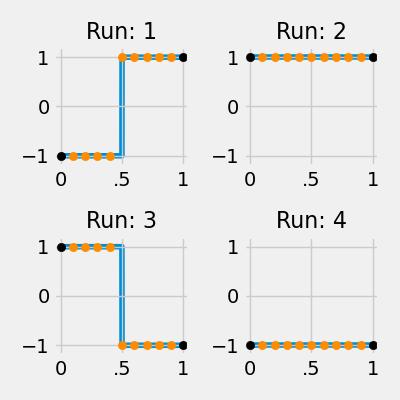
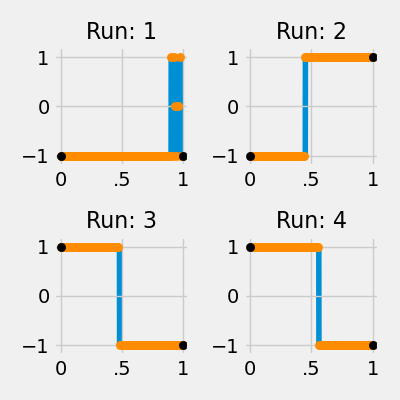
working copy of cordex_continuous where n_x=100, n_b=2, r=4 produces A-opt value 8.44 with no penalization

diff --git a/v2/cordex_continuous.py b/v2/cordex_continuous.py
@@ -5,7 +5,8 @@ from gen_rand_design import gen_rand_design_m  # custom function for generating 
 from cordex_discrete import cordex_discrete
 
 
-def cordex_continuous(runs, f_list, scalars, optimality='A', J_cb=None, R_0=None, smooth_pen=0, ridge_pen=0, epochs=1000,
+def cordex_continuous(runs, f_list, scalars, optimality='A', J_cb=None, R_0=None, smooth_pen=0, ridge_pen=0,
+                      epochs=1000,
                       method='L-BFGS-B', random_start=False, disable_bar=True, final_pass=False):
     """
     Uses a coordinate descent algorithm to find the design with the minimum D-optimality (or maximum A-optimality)
@@ -56,26 +57,30 @@ def cordex_continuous(runs, f_list, scalars, optimality='A', J_cb=None, R_0=None
             ValueError: If the specified optimality criterion is not one of 'D' or 'A'.
         """
 
+        def MATRIX_calculation():
+            if R_0 is None and ridge_pen == 0:
+                P = np.identity(Mu.shape[0])
+            else:
+                if R_0 is None:
+                    P = Mu + ridge_pen * np.identity(Mu.shape[0])
+                elif ridge_pen == 0:
+                    P = Mu + smooth_pen * R_0
+                else:
+                    P = Mu + smooth_pen * R_0 + ridge_pen * np.identity(Mu.shape[0])
+            try:
+                P_inv = np.linalg.inv(P)
+            except np.linalg.LinAlgError:
+                return np.nan
+            return P_inv @ Mu @ P_inv
+
         Model_mat[run, feat] = x
         Gamma = Model_mat[:, :f_coeffs]
         X = Model_mat[:, f_coeffs:]
         Zetta = np.concatenate((ones, Gamma @ J_cb, X), axis=1)
         Mu = Zetta.T @ Zetta
 
-        if R_0 is None:
-            R = np.zeros((Mu.shape[0], Mu.shape[1]))
-        else:
-            R = R_0
-        if ridge_pen == 0:
-            I = np.zeros((Mu.shape[0], Mu.shape[1]))
-        else:
-            I = np.identity(Mu.shape[0])
+        MATRIX = MATRIX_calculation()
 
-        try:
-            P_inv = np.linalg.inv(Mu + smooth_pen * R + ridge_pen * I)
-            MATRIX = P_inv @ Mu @ P_inv
-        except np.linalg.LinAlgError:
-            return np.nan
         # if R_0 is None:
         #     MATRIX = Mu
         # else:
@@ -92,7 +97,7 @@ def cordex_continuous(runs, f_list, scalars, optimality='A', J_cb=None, R_0=None
             return -value  # negative of criterion value for minimization (i.e., maximize D-optimality)
         elif optimality == 'A':
             try:
-                value = float(np.trace(np.linalg.inv(MATRIX)))  # trace of inverse of Zetta.T x Zetta
+                value = np.trace(np.linalg.inv(MATRIX))  # trace of inverse of Zetta.T x Zetta
             except np.linalg.LinAlgError:
                 value = np.nan
             return value
@@ -123,8 +128,8 @@ def cordex_continuous(runs, f_list, scalars, optimality='A', J_cb=None, R_0=None
             Gamma_, X_ = gen_rand_design_m(runs=runs, f_list=f_list, scalars=scalars)
             Model_mat = np.hstack((Gamma_, X_))
         else:
-            Model_mat, _, _ = cordex_discrete(runs=runs, f_list=f_list, scalars=scalars, levels=[-1, 1], epochs=1,
-                                              optimality=optimality, J_cb=J_cb, disable_bar=disable_bar)
+            Model_mat, _ = cordex_discrete(runs=runs, f_list=f_list, scalars=scalars, levels=[-1, 1], epochs=10,
+                                           optimality=optimality, J_cb=J_cb, disable_bar=disable_bar)
         for run in range(runs):
             for feat in range(f_coeffs + scalars - 1):
                 res = minimize(objective, Model_mat[run, feat], method=method, bounds=[(-1, 1)])

diff --git a/v2/cordex_discrete.py b/v2/cordex_discrete.py
@@ -103,24 +103,35 @@ def cordex_discrete(runs, f_list, scalars, levels, epochs, optimality='A', J_cb=
             raise ValueError(f"Invalid criterion {optimality}. "
                              "Criterion should be one of 'D', 'A', 'E', or 'I'.")
 
+    def check(obj):
+        if optimality in ['A']:
+            return 0 < obj < Best_obj
+        else:
+            return obj < 0 < Best_obj
+
+    Best_des = None
+    Best_obj = np.inf
     f_coeffs = sum(f_list)+1
     ones = np.ones((runs, 1))
-    epochs_list = []
 
-    for epoch in tqdm(range(epochs), disable=disable_bar):
-        Gamma_, X_ = gen_rand_design_m(runs=runs, f_list=f_list, scalars=scalars)  # [n x n_x]
-        Model_mat = np.hstack((Gamma_, X_))
-        for run in range(runs):
-            for feat in range(f_coeffs + scalars - 1):
-                best_level_list = []
-                for level in levels:
-                    Model_mat[run, feat] = level
-                    objective_value = objective()
-                    best_level_list.append(objective_value)
-                best_level_index = best_level_list.index(min(best_level_list))
-                Model_mat[run, feat] = levels[best_level_index]
+    while Best_obj == np.inf:
+        for _ in tqdm(range(epochs), disable=disable_bar):
+            Gamma_, X_ = gen_rand_design_m(runs=runs, f_list=f_list, scalars=scalars)  # [n x n_x]
+            Model_mat = np.hstack((Gamma_, X_))
+            for run in range(runs):
+                for feat in range(f_coeffs + scalars - 1):
+                    best_level_list = []
+                    for level in levels:
+                        Model_mat[run, feat] = level
+                        objective_value = objective()
+                        best_level_list.append(objective_value)
+                    best_level_index = best_level_list.index(min(best_level_list))
+                    Model_mat[run, feat] = levels[best_level_index]
 
-        # For each epoch, compute the optimality criterion to keep in an array.
-        objective_value = objective()
-        epochs_list.append([epoch, objective_value, Model_mat])
-    return find_best_design(np.array(epochs_list, dtype=object), optimality)
+            # For each epoch, compute the optimality criterion to keep in an array.
+            objective_value = objective()
+            if check(objective_value):
+                Best_obj = objective_value
+                Best_des = Model_mat
+
+    return Best_des, np.abs(Best_obj)

diff --git a/v2/R.py b/v2/R.py
@@ -5,21 +5,21 @@ from basis import polynomial
 from scipy.linalg import block_diag
 
 
-def calc_penalty_matrix(n_b, padding=True):
-    zeros_ver = np.zeros(n_b).reshape(-1, 1)
-    zeros_hor = np.zeros(n_b + 1).reshape(1, -1)
-
+def calc_penalty_matrix(n_b):
     R_mat = np.array(
         [[quad(lambda t: (derivative(polynomial, t, n=2, dx=1e-6, args=[j])) *
                          (derivative(polynomial, t, n=2, dx=1e-6, args=[i])),
                0, 1, full_output=True)[0] for j in range(n_b)] for i in range(n_b)])
 
+    return R_mat
+
+
+def R(*matrices, padding=True):
+    block_mat = block_diag(*matrices)
+    zeros_ver = np.zeros(block_mat.shape[0]).reshape(-1, 1)
+    zeros_hor = np.zeros(block_mat.shape[1] + 1).reshape(1, -1)
     if padding:
-        R_0 = np.round(np.concatenate((zeros_hor, np.concatenate((zeros_ver, R_mat), axis=1)), axis=0), 3)
+        R_0 = np.round(np.concatenate((zeros_hor, np.concatenate((zeros_ver, block_mat), axis=1)), axis=0), 3)
     else:
-        R_0 = np.round(R_mat, 3)
+        R_0 = np.round(block_mat, 3)
     return R_0
-
-
-def R(*matrices):
-    return block_diag(*matrices)
